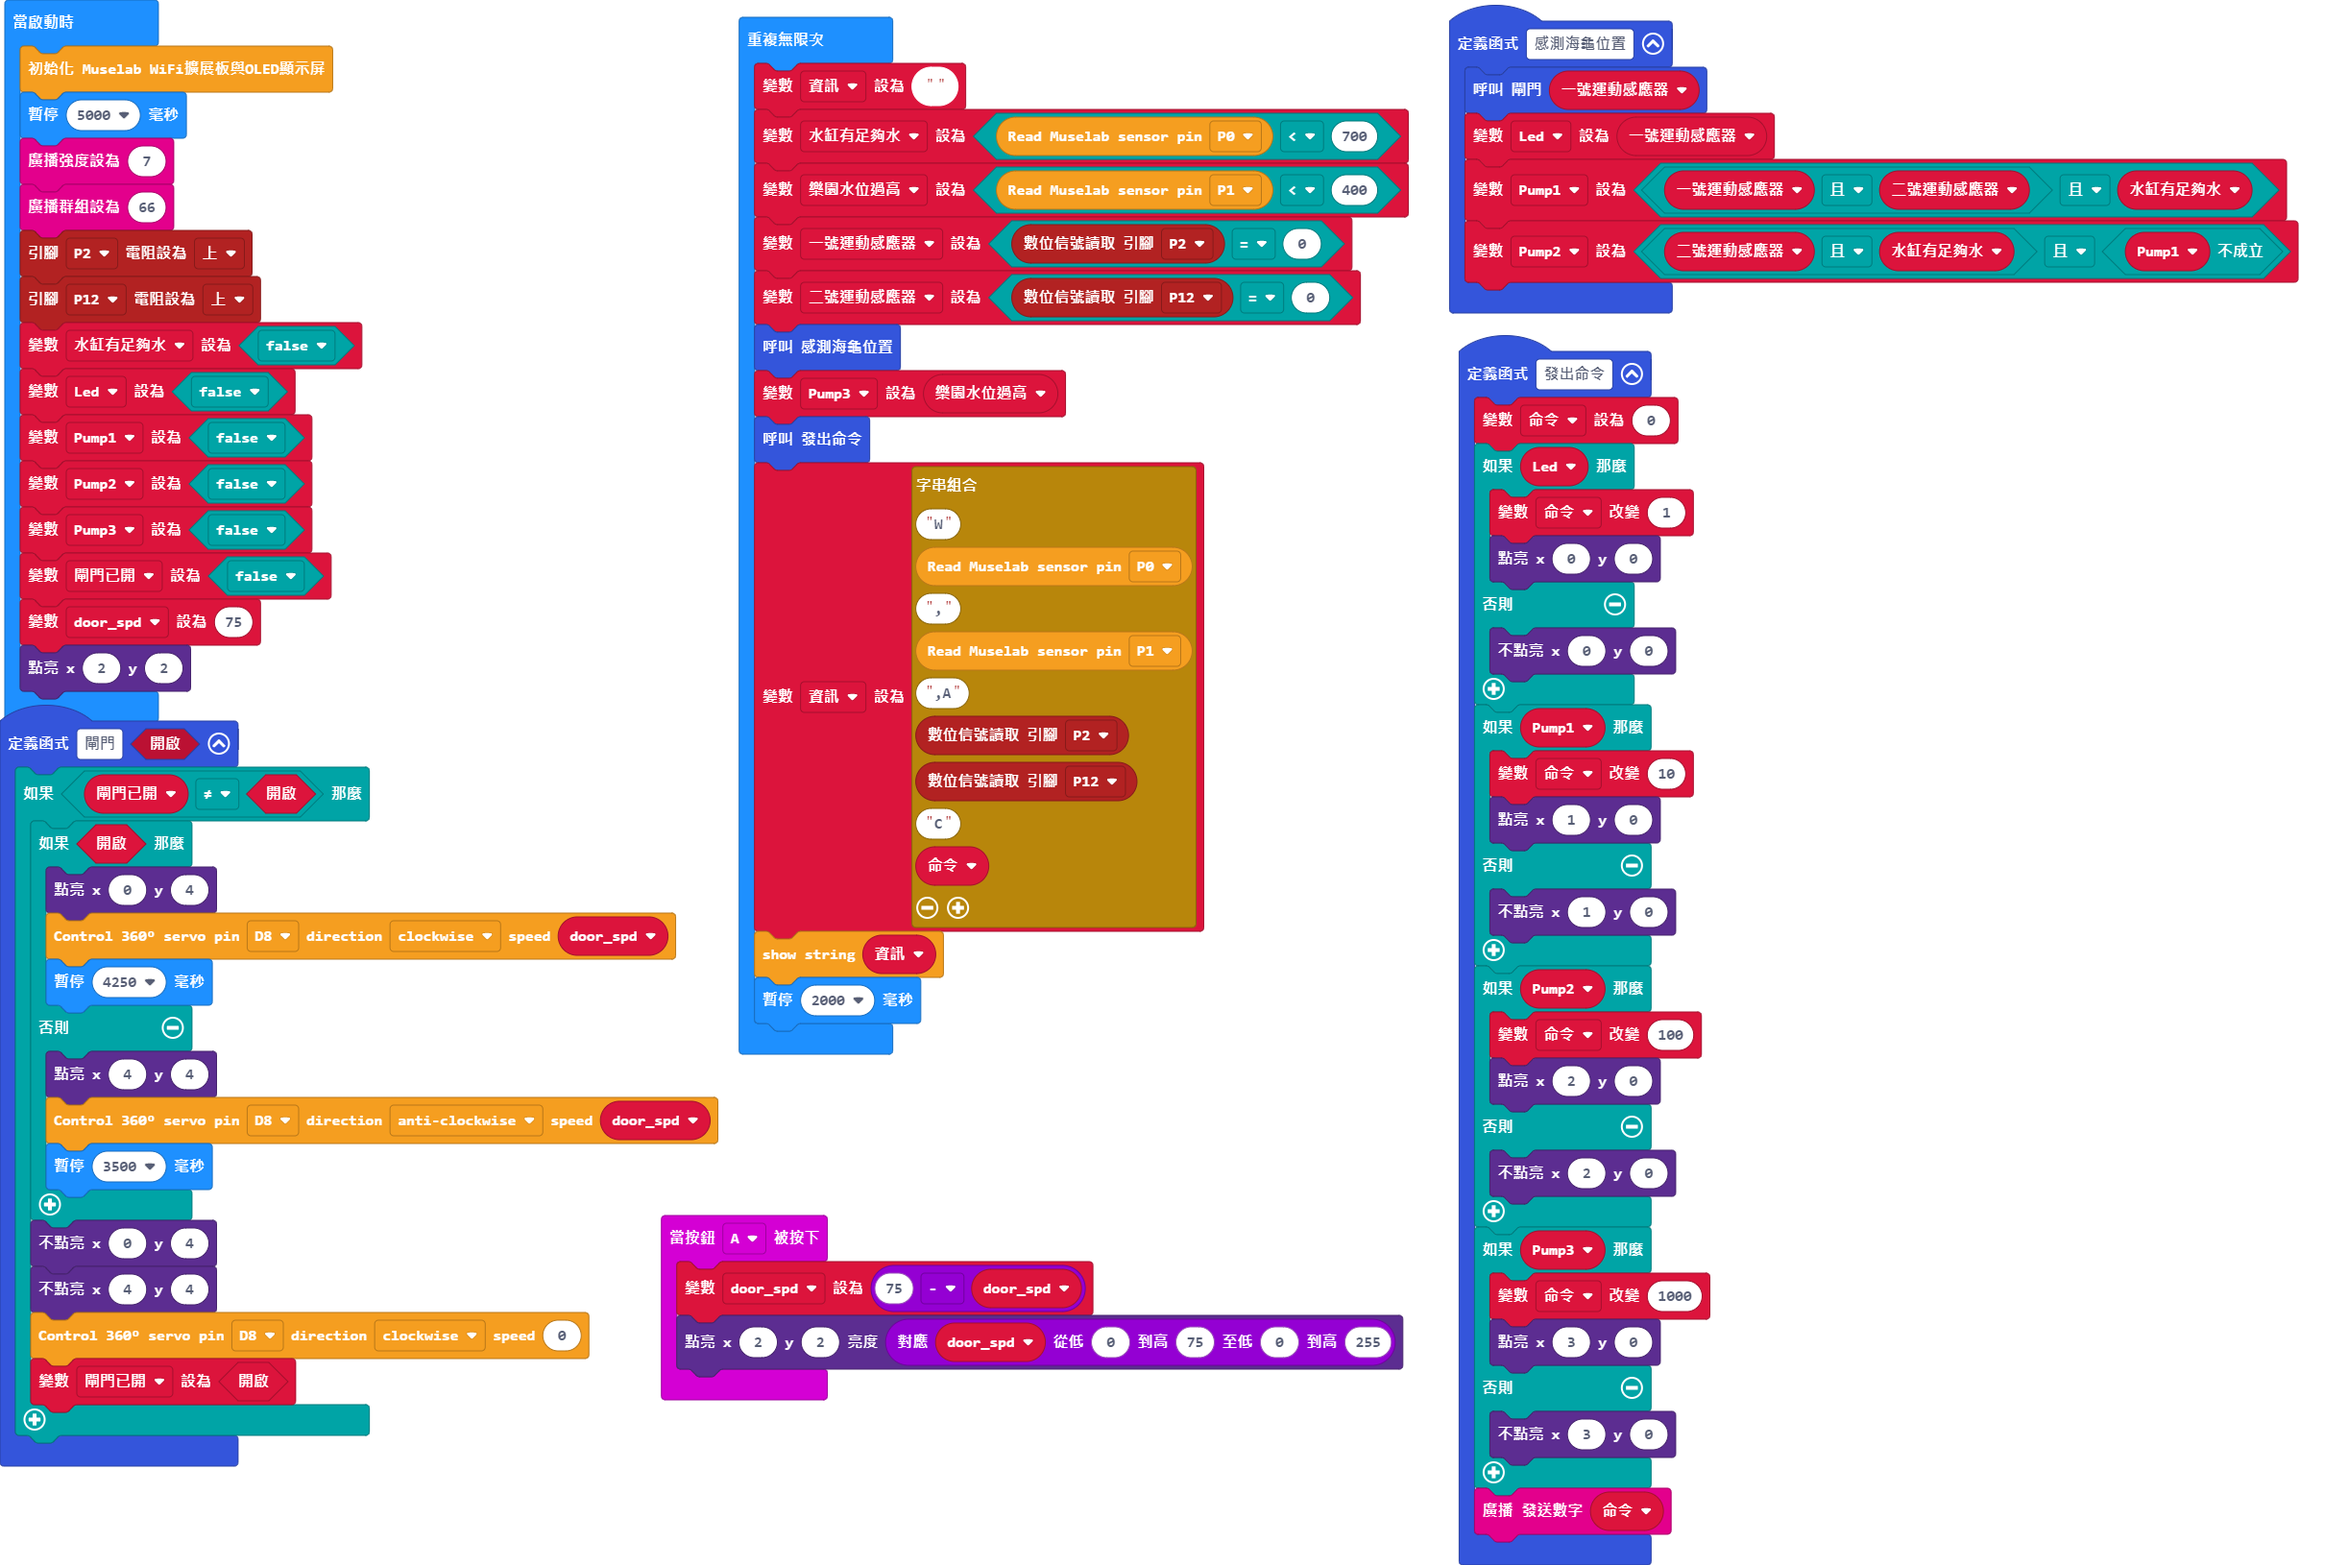
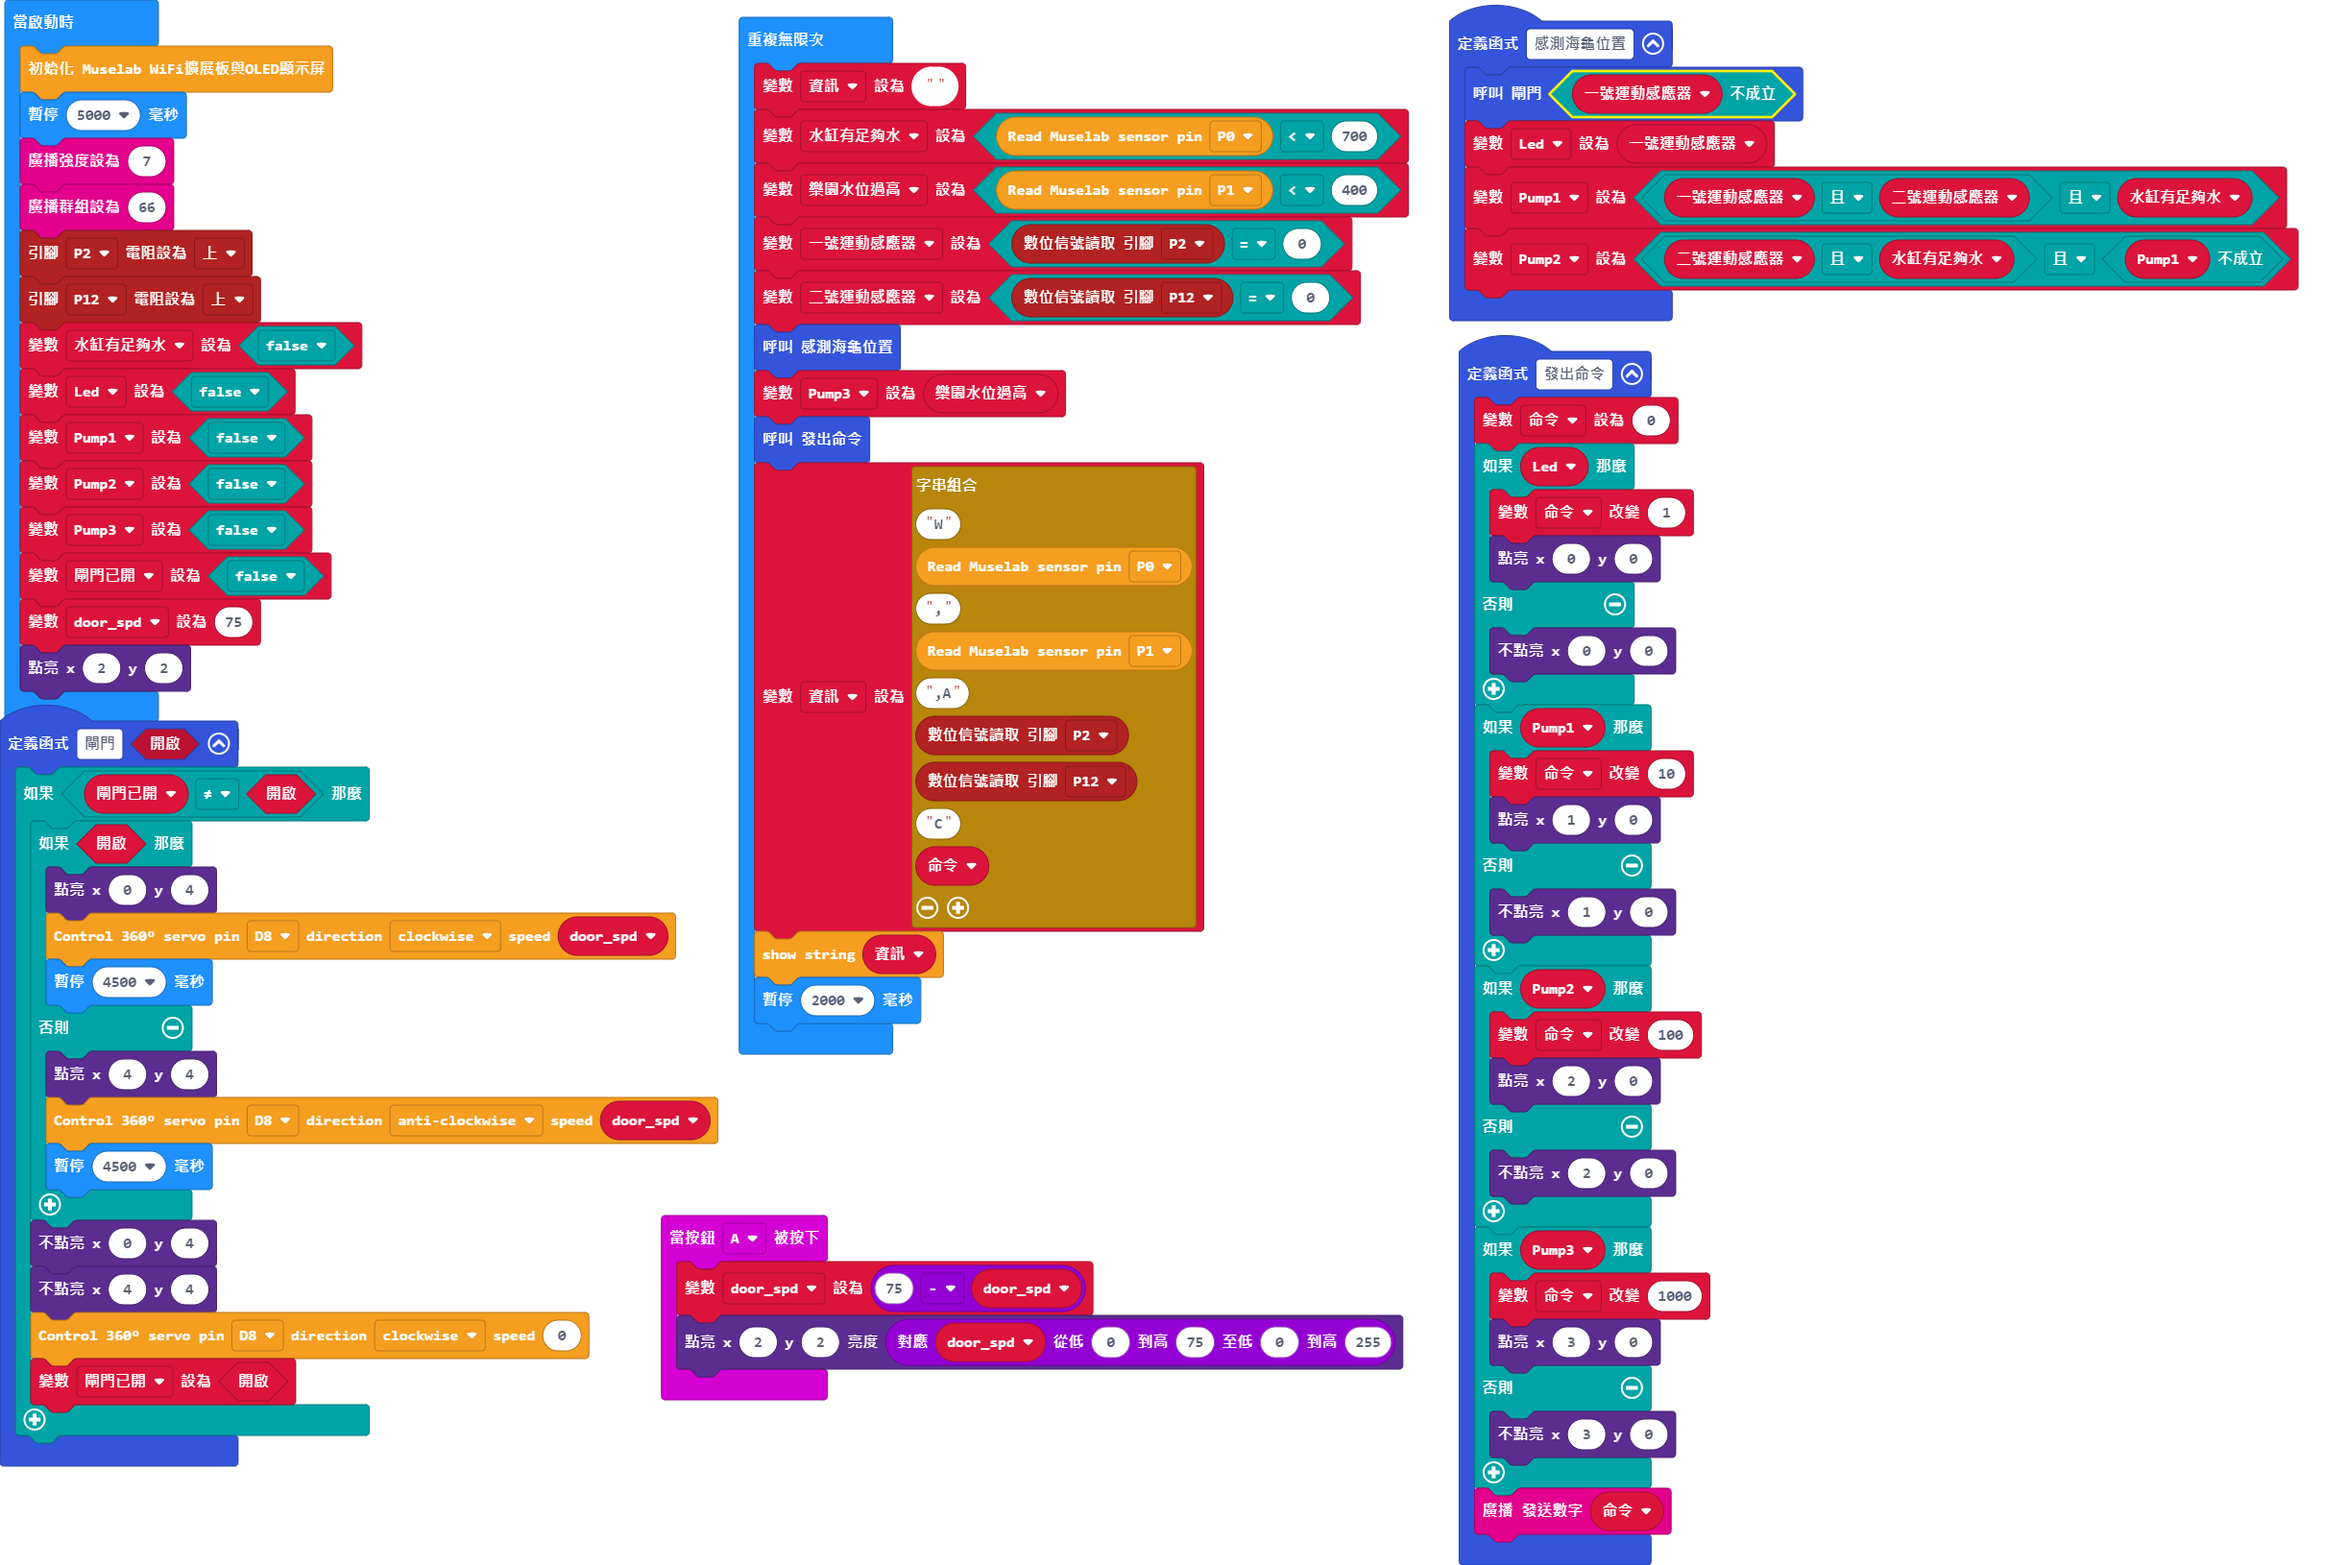
更新 main.blocks, main.ts

Changed region(s): [[0.6217, 0.0307, 0.9947, 0.2147]]

diff --git a/main.ts b/main.ts
@@ -1,5 +1,5 @@
 function 感測海龜位置 () {
-    閘門(一號運動感應器)
+    閘門(!(一號運動感應器))
     Led = 一號運動感應器
     Pump1 = 一號運動感應器 && 二號運動感應器 && 水缸有足夠水
     Pump2 = 二號運動感應器 && 水缸有足夠水 && !(Pump1)
@@ -41,11 +41,11 @@ function 閘門 (開啟: boolean) {
         if (開啟) {
             led.plot(0, 4)
             Muse21.control360Servo(Muse21.Servo.Servo8, Muse21.ServoDirection.clockwise, door_spd)
-            basic.pause(4250)
+            basic.pause(4500)
         } else {
             led.plot(4, 4)
             Muse21.control360Servo(Muse21.Servo.Servo8, Muse21.ServoDirection.anticlockwise, door_spd)
-            basic.pause(3500)
+            basic.pause(4500)
         }
         led.unplot(0, 4)
         led.unplot(4, 4)
